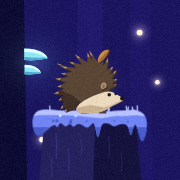
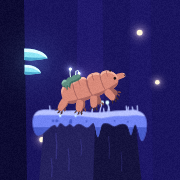
Облики 24.11, этапы 6–7: следы и лавка (леска дугой к грибку), иконка с Тихоходкой на пне, тексты сверены

Changed region(s): [[0.3056, 0.2778, 0.6944, 0.6389], [0.3056, 0.3333, 0.3333, 0.3611]]

diff --git a/index.html b/index.html
@@ -4911,8 +4911,8 @@ const UI = (() => {
   };
   function trailBits(x, sk) {
     const k = sk.trail.k, at = Art.anchor(sk, { t: 0.873, wing: 1, face: 1 }), ax = 80 + 1.75 * at[0], ay = 141 - 1.75 * at[1];   // точка следа в карточке
-    if (k === 'dash') {             // леска — дугой снизу слева к грибку
-      const pts = []; for (let i = 0; i <= 40; i++) { const u = i / 40, bx = lerp(10, ax, u), by = lerp(140, ay, u); pts.push([bx - Math.sin(u * Math.PI) * 18, by + Math.sin(u * Math.PI) * 10, u * 170, 0.25 + u * 0.75]); }
+    if (k === 'dash') {             // леска — дугой снизу слева, над спиной рыбы, к грибку (не поперёк тела)
+      const pts = []; for (let i = 0; i <= 40; i++) { const u = i / 40, bx = lerp(12, ax, u), by = lerp(138, ay, u); pts.push([bx - Math.sin(u * Math.PI) * 30, by - Math.sin(u * Math.PI) * 40, u * 220, 0.25 + u * 0.75]); }
       Art.glowDash(x, pts, 2.4, sk.trail.col); return;
     }
     const [cols, col2, SPOT] = TRAIL_LOOK[k];

diff --git a/проверка/icons.py b/проверка/icons.py
@@ -1,5 +1,5 @@
 """Иконки «Тихолесья» функциями самой игры (canvas → PNG): python3 icons.py <папка-репозитория>
-Ёжик на вершине пня, стволы ночного леса, светящиеся трутовики и светлячки. Всё важное — в центральных 80 % (maskable)."""
+Тихоходка на вершине пня, стволы ночного леса, светящиеся трутовики и светлячки. Всё важное — в центральных 80 % (maskable)."""
 import asyncio, base64, os, sys
 from playwright.async_api import async_playwright
 REPO = sys.argv[1]
@@ -37,10 +37,10 @@ JS = r"""(S) => {
   A.setScale(k);
   const sp = A.plat('home', 66, 0, 1);
   c.save(); c.setTransform(1, 0, 0, 1, 0, 0); c.drawImage(sp.c, (58 - sp.ox) * k, (73 - sp.oy) * k, sp.w * k, sp.h * k); c.restore();
-  // Ёжик смотрит вправо: мягкий ореол облика и сам облик крупно
-  const sk = T.SKINS.find((s) => s.id === 'ezhik');
-  c.globalCompositeOperation = 'lighter'; c.globalAlpha = 0.16; c.drawImage(A.glow(sk.glow), 60 - 24, 72 - 42, 48, 48); c.globalCompositeOperation = 'source-over'; c.globalAlpha = 1;
-  c.save(); c.translate(60, 72.8); c.scale(0.84, 0.84); A.char(c, sk, { t: 0.873, wing: 1, face: 1 }); c.restore();
+  // Тихоходка смотрит вправо: мягкий ореол облика и сам облик крупно
+  const sk = T.SKINS.find((s) => s.id === 'tihohodka');
+  c.globalCompositeOperation = 'lighter'; c.globalAlpha = 0.16; c.drawImage(A.glow(sk.glow), 57 - 24, 72 - 42, 48, 48); c.globalCompositeOperation = 'source-over'; c.globalAlpha = 1;
+  c.save(); c.translate(57, 72.8); c.scale(0.9, 0.9); A.char(c, sk, { t: 0.873, wing: 1, face: 1 }); c.restore();
   // бумажное зерно, как у интерфейса
   c.setTransform(1, 0, 0, 1, 0, 0);
   const id = c.getImageData(0, 0, S, S), d = id.data; let s = 12345;
